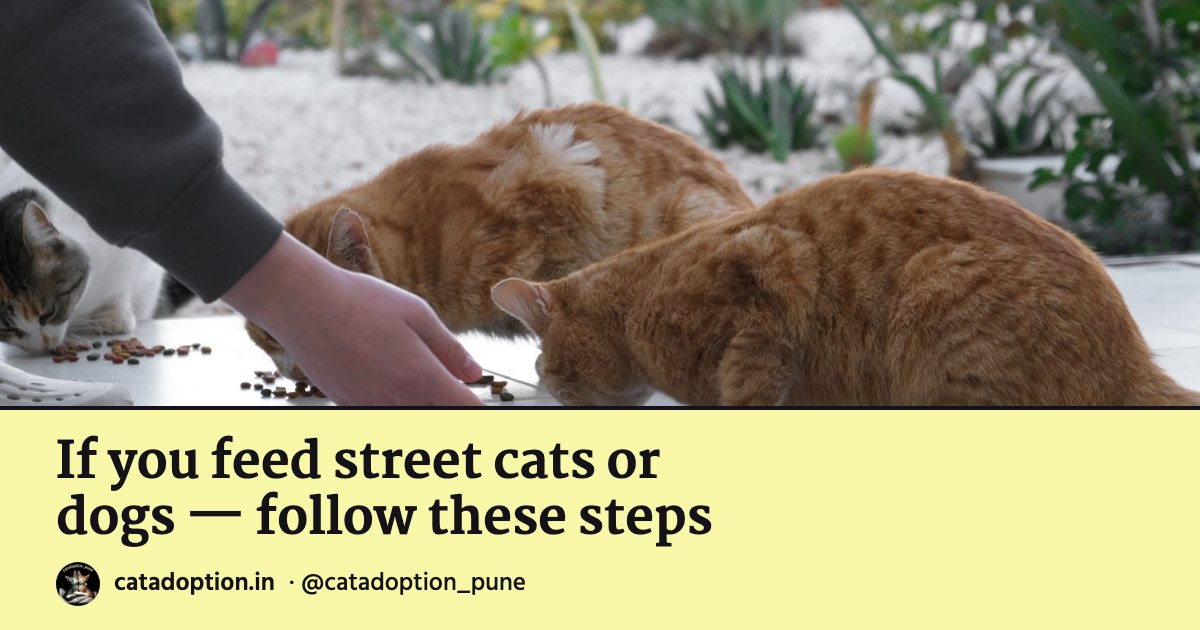
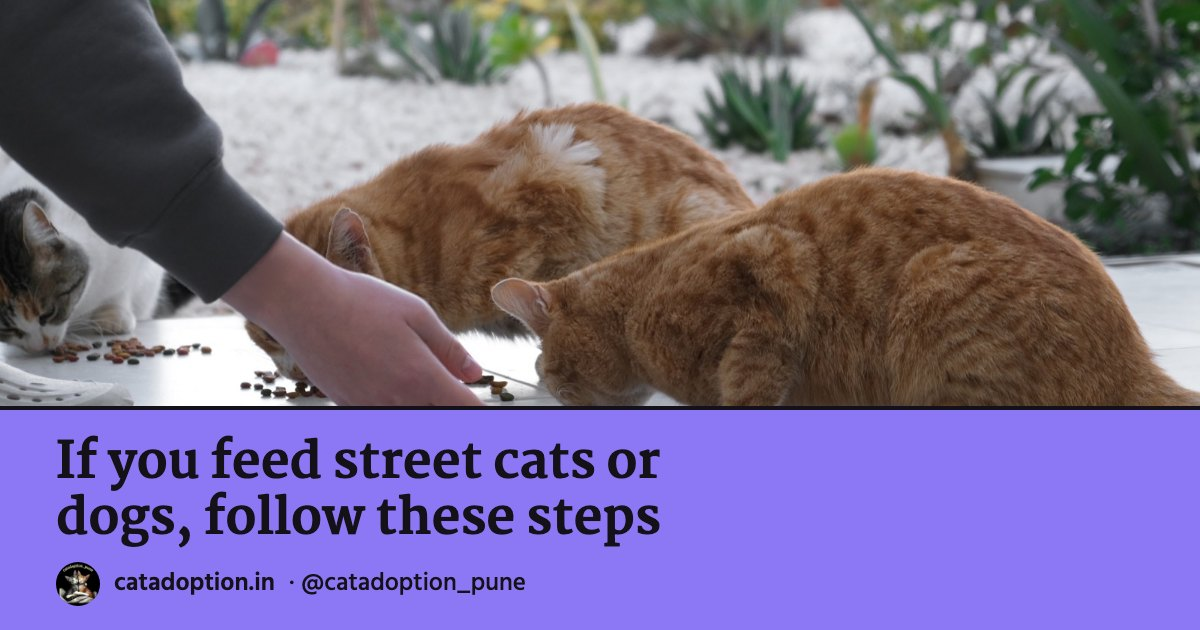
Site: page-top colours name the section; the Visit headline and small rewordings from the redesign branch
- Sage for adopting (adopt, adopter form, visit, send a cat), periwinkle for care and the shop (learn, every guide,
  shop), sky for help now (emergency, found a kitten), butter for about and the fine print. No page top is yellow,
  which means "act now" in the drawings, and the shop is not butter, which means "the free version" on its cards.
  The five guides whose colour changed get their share pictures rebuilt.
- Visit: "Found us on Google Maps? The cats aren't at the pin." with a sub-line that no longer repeats it.
- Cat care: "Cat care, kept short." The adopter form: "It takes about five minutes." Adopt and Feeding street
  cats: a comma in place of the dash (Feeding's title follows its heading). Emergency: "NGO directory, Pune and
  PCMC". About's badge in sentence case.
- The Cat care page's section label stays label-sized.

diff --git a/assets/style.css b/assets/style.css
@@ -20,7 +20,8 @@
 /* catadoption_pune — shared stylesheet (v4: ink edges and hard shadows, 2026-10-10)
    Palette LOCKED July 4 (brunch-exact) · Martel headings + Hind body. Kalam only inside the drawn pages.
    Rules: colour blocks punctuate; text-dense content lives in quiet white zones. Cards have an ink edge;
-   things you can press lift on a hard ink shadow.
+   things you can press lift on a hard ink shadow. A page top's colour says which part of the site you are in:
+   sage adopt · peri care and the shop · sky help now · butter about and fine print. Yellow stays "act now".
    Use the tokens below; a new colour, size, radius or shadow goes here first or not at all. */
 
 :root{
@@ -209,7 +210,6 @@ a{color:inherit;}
 .page-hero--peri{--hero:var(--peri);}
 .page-hero--sage{--hero:var(--sage);}
 .page-hero--sky{--hero:var(--sky);}
-.page-hero--yellow{--hero:var(--yellow);--hl:var(--white);}
 .page-hero--butter{--hero:var(--butter);--hl:var(--sky);}
 .page-hero--wide,.page-hero--compact{--col:var(--wide);}
 .page-hero--tall{min-height:calc(100svh - 17rem);align-content:center;}
@@ -365,6 +365,7 @@ footer strong{font-family:var(--font-head);color:var(--white);font-size:1rem;dis
 .hub-head{width:min(var(--wide),100% - 2*var(--gut));margin:0 auto;padding:clamp(2.4rem,6vh,3.4rem) 0 0;}
 .hub-head h2{font-size:var(--s3);font-weight:800;margin-bottom:0.5rem;}
 .hub-h2{font-size:1.05rem;letter-spacing:0.1em;text-transform:uppercase;opacity:0.75;margin:0 0 1rem;}
+.prose h2.hub-h2{font-size:var(--s2);font-weight:700;margin:0 0 1rem;} /* a label, not a section heading */
 .hub-head p{max-width:60ch;}
 .hub .res-grid{padding-top:1.6rem;}
 /* related strip at the foot of every article, so no page is a dead end */

diff --git a/feeding-strays.html b/feeding-strays.html
@@ -3,11 +3,11 @@
 <head>
 <meta charset="UTF-8">
 <meta name="viewport" content="width=device-width, initial-scale=1.0">
-<title>If you feed street cats or dogs — follow these steps — catadoption_pune</title>
+<title>If you feed street cats or dogs, follow these steps — catadoption_pune</title>
 <meta name="description" content="A practical guide for street-animal feeders in Pune and India: designated feeding spots, Rule 20 of the ABC Rules, and what to do if someone stops or threatens you.">
 <link rel="canonical" href="https://catadoption.in/feeding-strays.html">
 <link rel="icon" href="assets/medallion.jpg" type="image/jpeg">
-<meta property="og:title" content="If you feed street cats or dogs — follow these steps — catadoption_pune">
+<meta property="og:title" content="If you feed street cats or dogs, follow these steps — catadoption_pune">
 <meta property="og:description" content="Designated feeding spots, Rule 20 of the ABC Rules, and what to do if someone stops or threatens you.">
 <meta property="og:image" content="https://catadoption.in/assets/share/feeding-strays.jpg">
 <meta property="og:image:width" content="1200">
@@ -34,9 +34,9 @@
   </nav>
 </header>
 
-<section class="page-hero page-hero--butter">
+<section class="page-hero page-hero--peri">
   <p class="crumb"><a href="./">Home</a> › <a href="learn.html">Cat care</a> › Feeding street cats and dogs</p>
-  <h1>If you feed street cats or dogs — <span class="hl">follow these steps</span></h1>
+  <h1>If you feed street cats or dogs, <span class="hl">follow these steps</span></h1>
   <p class="sub">Yes, we're a cat page — but Pune's feeders care for everyone, and this one is useful for our whole community.</p>
 </section>
 

diff --git a/visit.html b/visit.html
@@ -31,10 +31,10 @@
   </nav>
 </header>
 
-<section class="page-hero page-hero--butter">
+<section class="page-hero page-hero--sage">
   <p class="crumb"><a href="./">Home</a> › Visiting us</p>
-  <h1>Found us on Google Maps? You're in the right place — right here.</h1>
-  <p class="sub">We're Pune's virtual adoption centre for indie cats. The cats aren't at the pin — they're one message away.</p>
+  <h1>Found us on Google Maps? <span class="hl">The cats aren't at the pin.</span></h1>
+  <p class="sub">We're Pune's virtual adoption centre for indie cats. Every cat lives with the person who rescued it, one message away.</p>
 </section>
 
 <main class="prose">

diff --git a/learn.html b/learn.html
@@ -31,10 +31,10 @@
   </nav>
 </header>
 
-<section class="page-hero page-hero--sage">
+<section class="page-hero page-hero--peri">
   <p class="crumb"><a href="./">Home</a> › Cat care</p>
-  <h1>Cat care</h1>
-  <p class="sub">The essentials first — kept short, because you'll learn most of it from the cat. Then the specific problems, answered.</p>
+  <h1>Cat care, <span class="hl">kept short.</span></h1>
+  <p class="sub">The essentials first, because you'll learn most of it from the cat. Then the specific problems, answered.</p>
 </section>
 
 <main class="prose">

diff --git a/adopter-form.html b/adopter-form.html
@@ -34,7 +34,7 @@
 <section class="page-hero page-hero--sage">
   <p class="crumb"><a href="./">Home</a> › <a href="adopt.html">Adopt</a> › Adopter form</p>
   <h1>Ready to adopt? <span class="hl">Start here.</span></h1>
-  <p class="sub">Copy the questions, answer them right inside the message, and send it to the rescuer you're talking to. Barely takes 5 minutes.</p>
+  <p class="sub">Copy the questions, answer them right inside the message, and send it to the rescuer you're talking to. It takes about five minutes.</p>
 </section>
 
 <main class="prose">

diff --git a/about.html b/about.html
@@ -31,11 +31,11 @@
   </nav>
 </header>
 
-<section class="page-hero page-hero--peri">
+<section class="page-hero page-hero--butter">
   <p class="crumb"><a href="./">Home</a> › About</p>
   <h1>Our story</h1>
   <p class="sub">A virtual adoption centre for Pune's indie cats and the rescuers looking after them.</p>
-  <span class="badge">Virtual Adoption Centre · volunteer-run · not an NGO</span>
+  <span class="badge">Virtual adoption centre · volunteer-run · not an NGO</span>
 </section>
 
 <main class="prose">

diff --git a/send-a-cat.html b/send-a-cat.html
@@ -35,7 +35,7 @@
   </nav>
 </header>
 
-<section class="page-hero page-hero--yellow page-hero--wide">
+<section class="page-hero page-hero--sage page-hero--wide">
   <p class="crumb"><a href="./">Home</a> › Send us a cat</p>
   <h1>Have a cat that needs a home? <span class="hl">Send it like this.</span></h1>
   <p class="sub">We are a notice-board, not a shelter. The cat stays with you, and we put it in front of the people in Pune who are looking. Nine things that get a post made faster.</p>

diff --git a/adopt.html b/adopt.html
@@ -33,7 +33,7 @@
 
 <section class="page-hero page-hero--sage">
   <p class="crumb"><a href="./">Home</a> › Adopt</p>
-  <h1>Yes — this is where you <span class="hl">adopt a cat in Pune.</span></h1>
+  <h1>Yes, this is where you <span class="hl">adopt a cat in Pune.</span></h1>
   <p class="sub">Everything below is in simple words: what adoption means, how it works, and what it costs (nothing).</p>
   <span class="badge">Free, always · Pune &amp; PCMC · Indies only</span>
 </section>

diff --git a/litter-box-pune-monsoon.html b/litter-box-pune-monsoon.html
@@ -59,7 +59,7 @@
   </nav>
 </header>
 
-<section class="page-hero page-hero--sky">
+<section class="page-hero page-hero--peri">
   <p class="crumb"><a href="./">Home</a> › <a href="learn.html">Cat care</a> › Litter in the monsoon</p>
   <h1>Where do you keep a litter box in a <span class="hl">Pune monsoon?</span></h1>
   <p class="sub">Somewhere that's still dry <em>after</em> the rain — plus the litter that survives the humidity, and a sitter-proofing note for when you travel.</p>

diff --git a/kitten-wet-food.html b/kitten-wet-food.html
@@ -60,7 +60,7 @@
   </nav>
 </header>
 
-<section class="page-hero page-hero--sage">
+<section class="page-hero page-hero--peri">
   <p class="crumb"><a href="./">Home</a> › <a href="learn.html">Cat care</a> › Feeding a rescued kitten</p>
   <h1>What do I feed a <span class="hl">rescued kitten</span> in Pune?</h1>
   <p class="sub">The one-line answer for tonight, then the affordable pick, the pricier pick, and when home food is fine. Also the pregnant cat on your balcony.</p>

diff --git a/resources.html b/resources.html
@@ -50,7 +50,7 @@
   </div>
 
   <div class="res-card">
-    <h2>📞 NGO directory — Pune / PCMC</h2>
+    <h2>📞 NGO directory, Pune and PCMC</h2>
     <!-- Only numbers each NGO publishes itself; no one's personal number, even when their organisation publishes it. Re-check before adding one. -->
     <p>Lines are busy. If nobody picks up, try the next one.</p>
     <ul>

diff --git a/README.md b/README.md
@@ -125,6 +125,12 @@ these files *are* the site. GitHub Pages serves them; a push to `main` deploys.
   in a scalloped edge. Headings stay in Martel; Kalam belongs to the drawn pages and the drawings. The `.hl` highlighter
   goes on the words in a page heading that carry the answer, and a guide's heading keeps its exact words when it gets
   one, because its share picture carries the heading.
+- **A page top's colour says which part of the site you are in:** sage for adopting (`adopt`, `adopter-form`, `visit`,
+  `send-a-cat`), periwinkle for care and the shop (`learn`, every guide, `shop`), sky for help now (`resources`,
+  `found-kitten-pune`), butter for about and the fine print (`about`, `privacy`, `404`). No page top is yellow, because
+  yellow means "act now" in the drawings. The shop is never butter, because butter is "the free version" on its cards.
+  A guide's share picture takes its page top's colour, so after a colour change rerun `share_cards.py` for that guide.
+  The board (`adoptable.html`) is still periwinkle until its generator changes.
 - **No Unsplash photo is left on the site.** The last, `hero-cat.jpg`, had been kept on `learn.html`'s adopting card as a
   fallback in case the kitten photo did not work out (the owner's call, 2026-09-15). It did work out, and on 2026-10-10 the
   card took her own kittens in the red bed, and the adopter-form card took her calico in place of the logo. Its two
